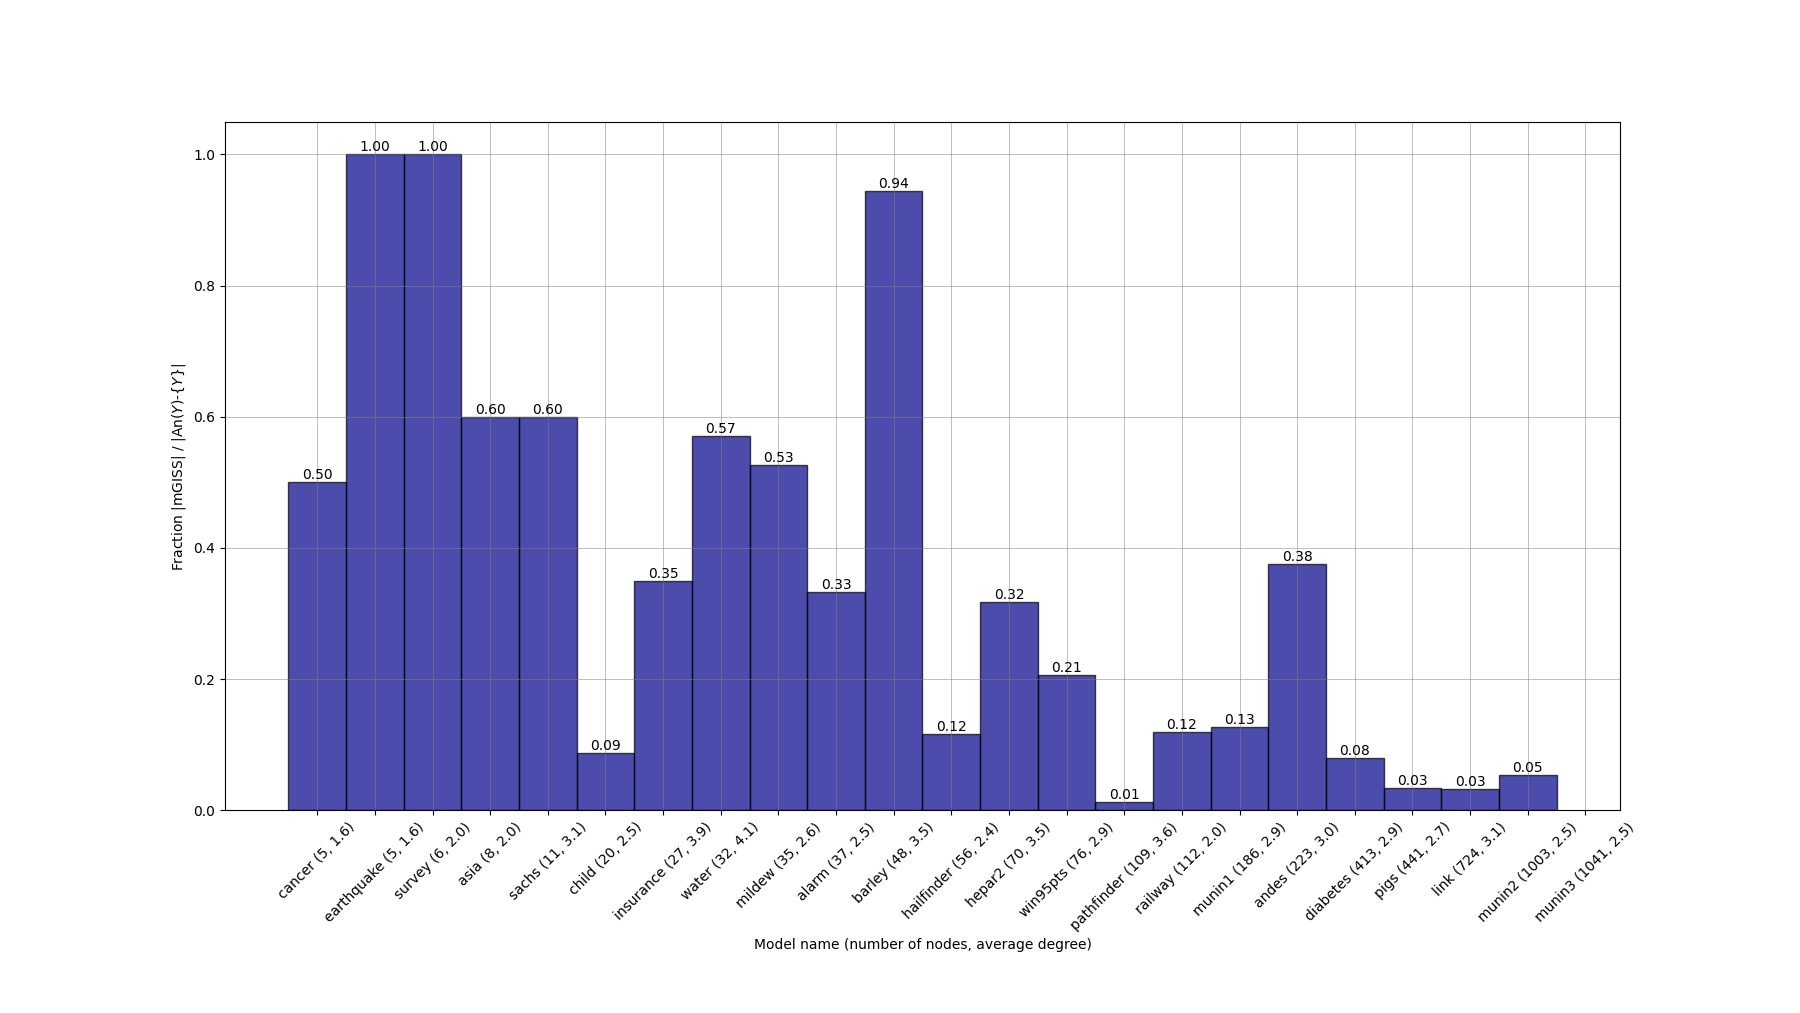
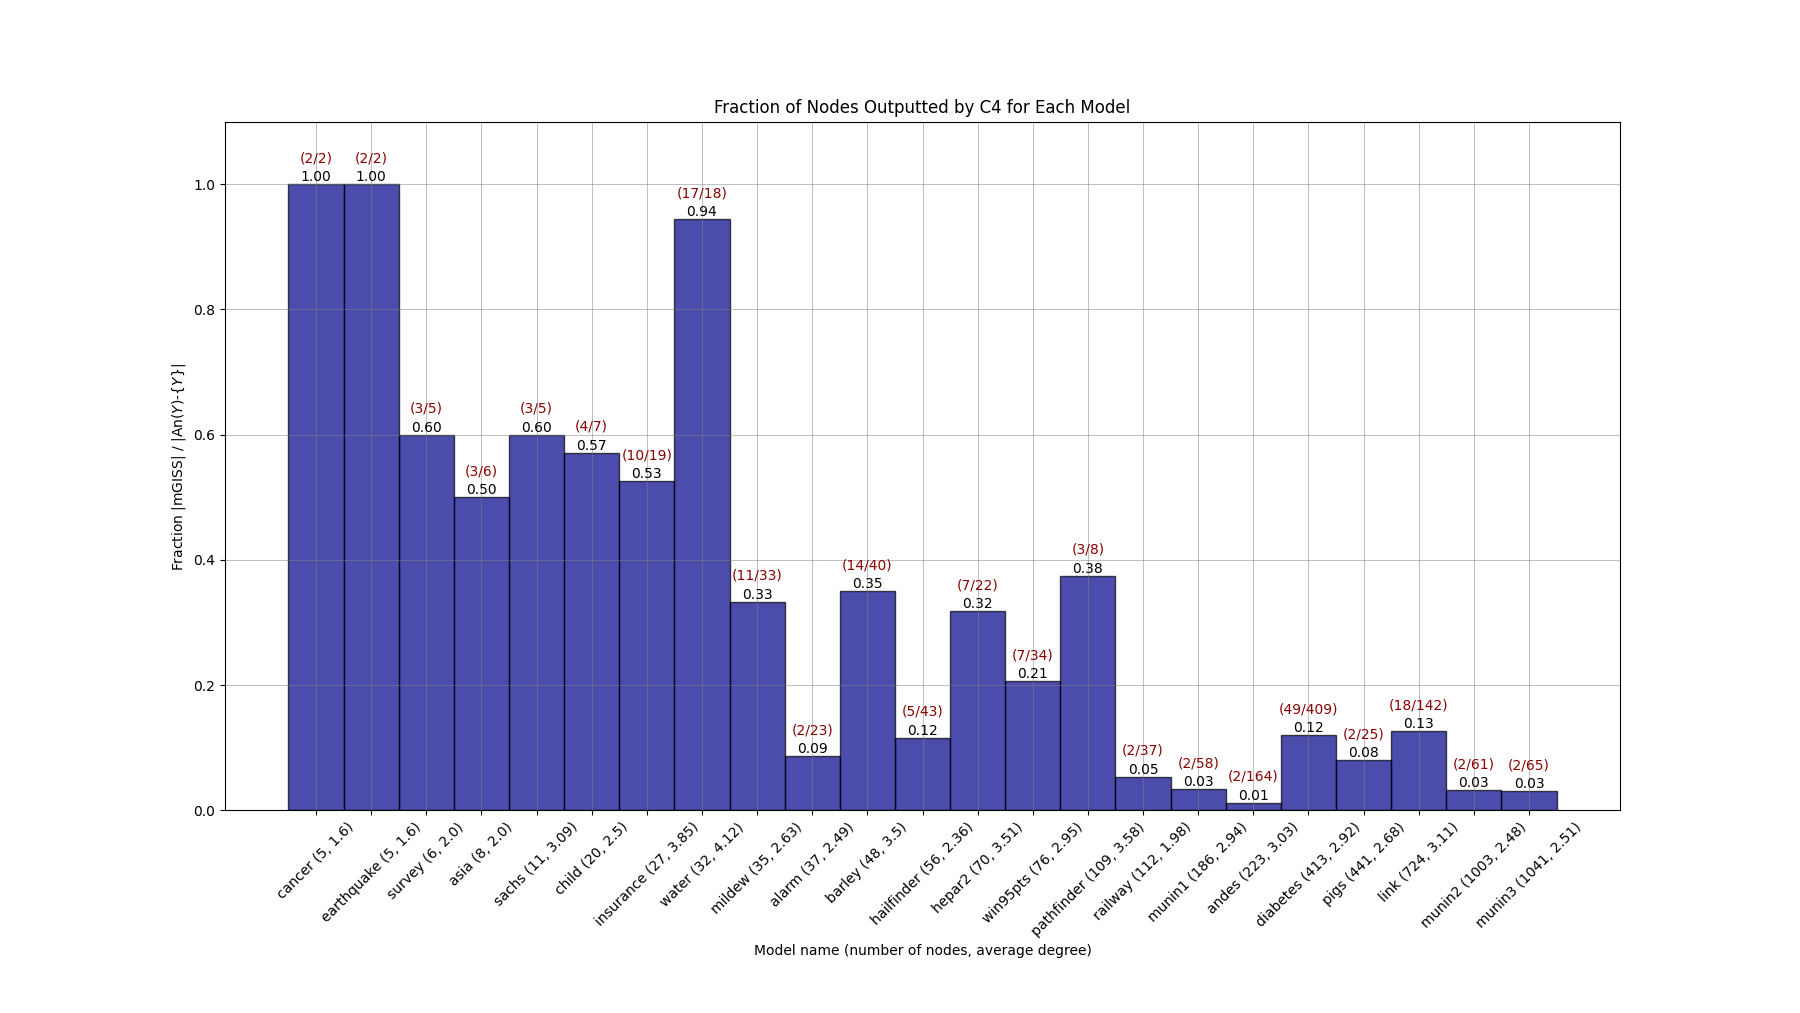
real world fractions exp - fixed bar plot

Changed region(s): [[0.1556, 0.1224, 0.9022, 0.9487], [0.4044, 0.0918, 0.6222, 0.1224]]

diff --git a/experiments/mgiss_for_real_world_graphs.py b/experiments/mgiss_for_real_world_graphs.py
@@ -4,7 +4,7 @@ from pgmpy.utils import get_example_model
 
 from _c4_algo import C4_on_target
 from _railway_data_to_dag import dag_from_railway_data
-from _utils import get_node_with_most_ancestors
+from _utils import get_node_with_most_ancestors, round_2_or_until_nonzero
 
 # All discrete and Gaussian models in bnlearn
 MODELS = [
@@ -32,9 +32,19 @@ MODELS = [
     "munin3",
 ]
 
+
+# # All discrete and Gaussian models in bnlearn
+# MODELS = [
+#     "sachs",
+#     "child",
+#     "asia",
+# ]
+
 fractions: dict[str, float] = {}
 n_nodes: list[int] = []
 avg_degrees: list[int] = []
+n_target_ancestors: list[int] = []
+n_mgiss: list[int] = []
 
 for model_name in MODELS:
     print(f"Computing fraction for model {model_name}")
@@ -45,34 +55,43 @@ for model_name in MODELS:
 
         # Find the node with the most ancestors
         Y, Y_ancestors_count = get_node_with_most_ancestors(
-            graph, no_single_children=True
+            graph,
+            no_single_children=True
+            # no_single_children=False,
         )
 
         # Apply the C4 algorithm
         mgiss = C4_on_target(graph, Y)
 
-        # Store fraction
+        # Compute and store fraction
         fraction = len(mgiss) / (
             Y_ancestors_count
         )  # Note that nx.ancestors contains PROPER ancestors (no need to subract 1)
         fractions[model_name] = fraction
 
-        avg_degree = round(
-            sum([graph.degree(node) for node in graph.nodes]) / len(graph.nodes), 1
+        print(model_name, Y, mgiss, fraction)
+
+        avg_degree = round_2_or_until_nonzero(
+            sum([graph.degree(node) for node in graph.nodes]) / len(graph.nodes)
         )
 
         n_nodes += [len(graph.nodes)]
         avg_degrees += [avg_degree]
+        n_mgiss += [len(mgiss)]
+        n_target_ancestors += [Y_ancestors_count]
 
     except Exception as e:
         print(f"Error processing model {model_name}: {e}")
         fractions[model_name] = 0  # Assign 0 if there's an error
         n_nodes += [0]
         avg_degrees += [0]
+        n_mgiss += [0]
+        n_target_ancestors += [0]
 
 # Add railway model
 
-MODELS += ["railway"]
+model_name = "railway"
+MODELS += [model_name]
 graph = dag_from_railway_data("./data/railway_data.csv")
 
 # Find the node with the most ancestors
@@ -86,53 +105,79 @@ fraction = len(mgiss) / (
     Y_ancestors_count
 )  # Note that nx.ancestors contains PROPER ancestors (no need to subract 1)
 
-avg_degree = round(
-    sum([graph.degree(node) for node in graph.nodes]) / len(graph.nodes), 1
+print(model_name, Y, mgiss, fraction)
+
+avg_degree = round_2_or_until_nonzero(
+    sum([graph.degree(node) for node in graph.nodes]) / len(graph.nodes)
 )
 
 fractions[model_name] = fraction
 n_nodes += [len(graph.nodes)]
 avg_degrees += [avg_degree]
+n_mgiss += [len(mgiss)]
+n_target_ancestors += [Y_ancestors_count]
 
+# Sort according to n_nodes
+# Get the indices of the sorted order of n_nodes
+sorted_indices = sorted(range(len(n_nodes)), key=lambda i: n_nodes[i])
+# Sort model characteristics and fractions list
+sorted_characteristics = [
+    (MODELS[i], n_nodes[i], avg_degrees[i]) for i in sorted_indices
+]
+sorted_fractions_lst = [
+    fractions[characteristics[0]] for characteristics in sorted_characteristics
+]
 
 # Create bar plot
 # plt.rcParams.update({"text.usetex": True, "font.family": "Helvetica"})
 plt.figure(figsize=(18, 12))
 bars = plt.bar(
-    fractions.keys(),
-    fractions.values(),
+    [
+        characteristics[0] for characteristics in sorted_characteristics
+    ],  # model names, sorted
+    sorted_fractions_lst,
     color="darkblue",
     width=1.0,
     edgecolor="k",
     alpha=0.7,
     align="center",  # xticks in center of bars
 )
-# plt.title("Franction of Nodes Outputted by C4 for Each Model")
+plt.title("Fraction of Nodes Outputted by C4 for Each Model")
 plt.xlabel("Model name (number of nodes, average degree)")
 plt.ylabel("Fraction $|$mGISS$|$ / $|$An$(Y)$-$\{Y\}|$ ")
 
 # x-ticks will be labeled with the model names and numbers of nodes
-model_node_pairs = list(zip(MODELS, n_nodes, avg_degrees))
-# Sort by the number of nodes (second element of each tuple)
-sorted_model_node_pairs = sorted(model_node_pairs, key=lambda x: x[1])
 # Create list with "<model> (<n_nodes_for_this_model>)"
 xtickslabels = [
     f"{model} ({n_nodes}, {avg_degree})"
-    for model, n_nodes, avg_degree in sorted_model_node_pairs
+    for model, n_nodes, avg_degree in sorted_characteristics
 ]
 plt.xticks(ticks=range(len(MODELS)), labels=xtickslabels, rotation=45)
 
 # Add values on top of bars
-for bar in bars:
+plt.ylim(0, 1.1)  # extra padding on top for bar labels
+# Will need to sort numbers of mgiss and ancestors_Y nodes
+n_target_ancestors_sorted = [n_target_ancestors[i] for i in sorted_indices]
+n_mgiss_sorted = [n_mgiss[i] for i in sorted_indices]
+for i, bar in enumerate(bars):
     height = bar.get_height()
     if height > 0:  # Only display labels for non-zero bars
-        plt.text(
+        plt.text(  # display fraction
             bar.get_x() + bar.get_width() / 2,  # X position: center of bar
             height,  # Y position: bar height
             f"{height:.2f}",  # Format the height to 2 decimal places
             ha="center",  # Horizontal alignment
             va="bottom",  # Vertical alignment
             fontsize=10,  # Font size for the text
+        )
+        plt.text(  # display actual numbers
+            bar.get_x() + bar.get_width() / 2,  # X position: center of bar
+            height + 0.03,  # Y position: bar height + a bit
+            f"({n_mgiss_sorted[i]}/{n_target_ancestors_sorted[i]})",  # Format the height to 2 decimal places
+            ha="center",  # Horizontal alignment
+            va="bottom",  # Vertical alignment
+            fontsize=10,  # Font size for the text
+            color="darkred",
         )
 plt.grid(color="gray", linestyle="-", linewidth=0.5, alpha=0.7)
 

diff --git a/experiments/_utils.py b/experiments/_utils.py
@@ -85,3 +85,16 @@ def get_node_with_most_ancestors(
 
 def most_common_list_element(lst):
     return max(lst, key=lst.count)
+
+
+def round_2_or_until_nonzero(number):
+    # Try rounding to 2 decimal places
+    rounded = round(number, 2)
+
+    # If rounded value is zero but the number is non-zero, find minimal non-zero precision
+    if rounded == 0 and number != 0:
+        precision = 3
+        while round(number, precision) == 0:
+            precision += 1
+        return round(number, precision)
+    return rounded
